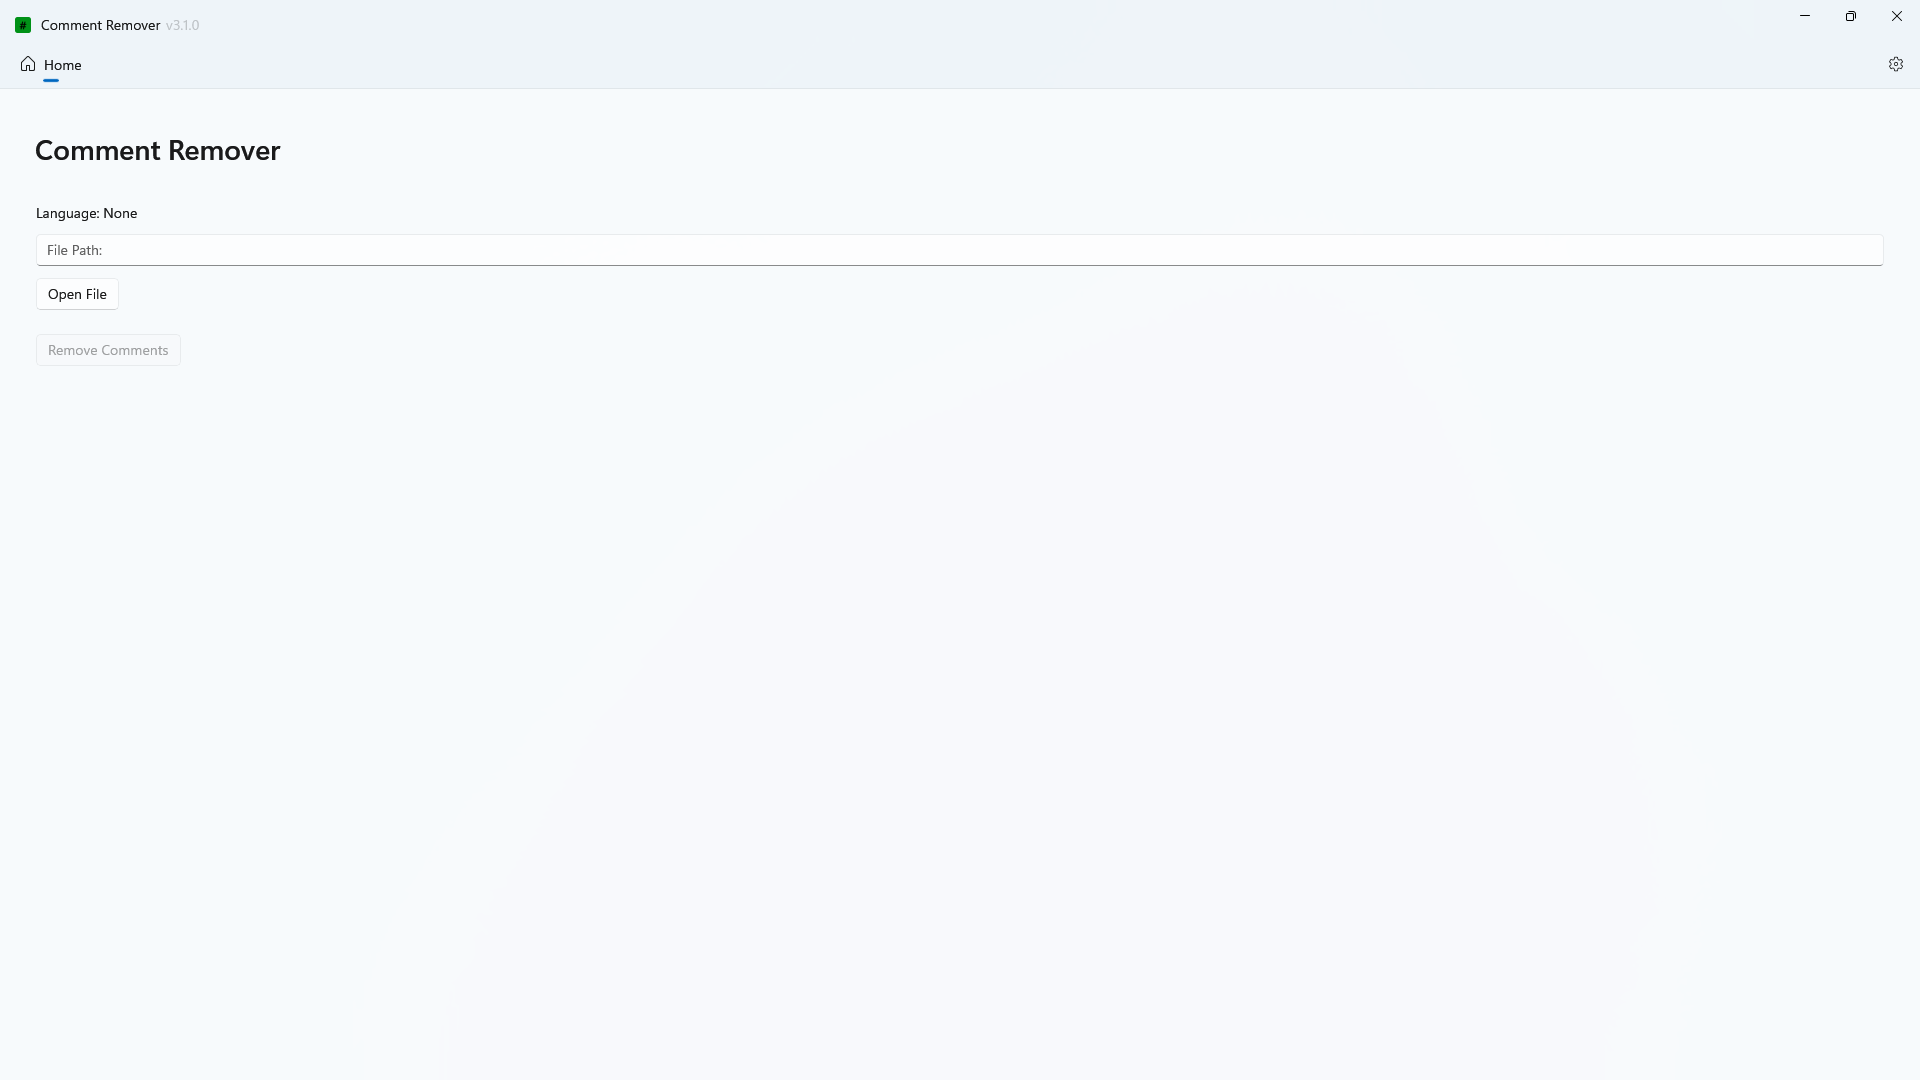
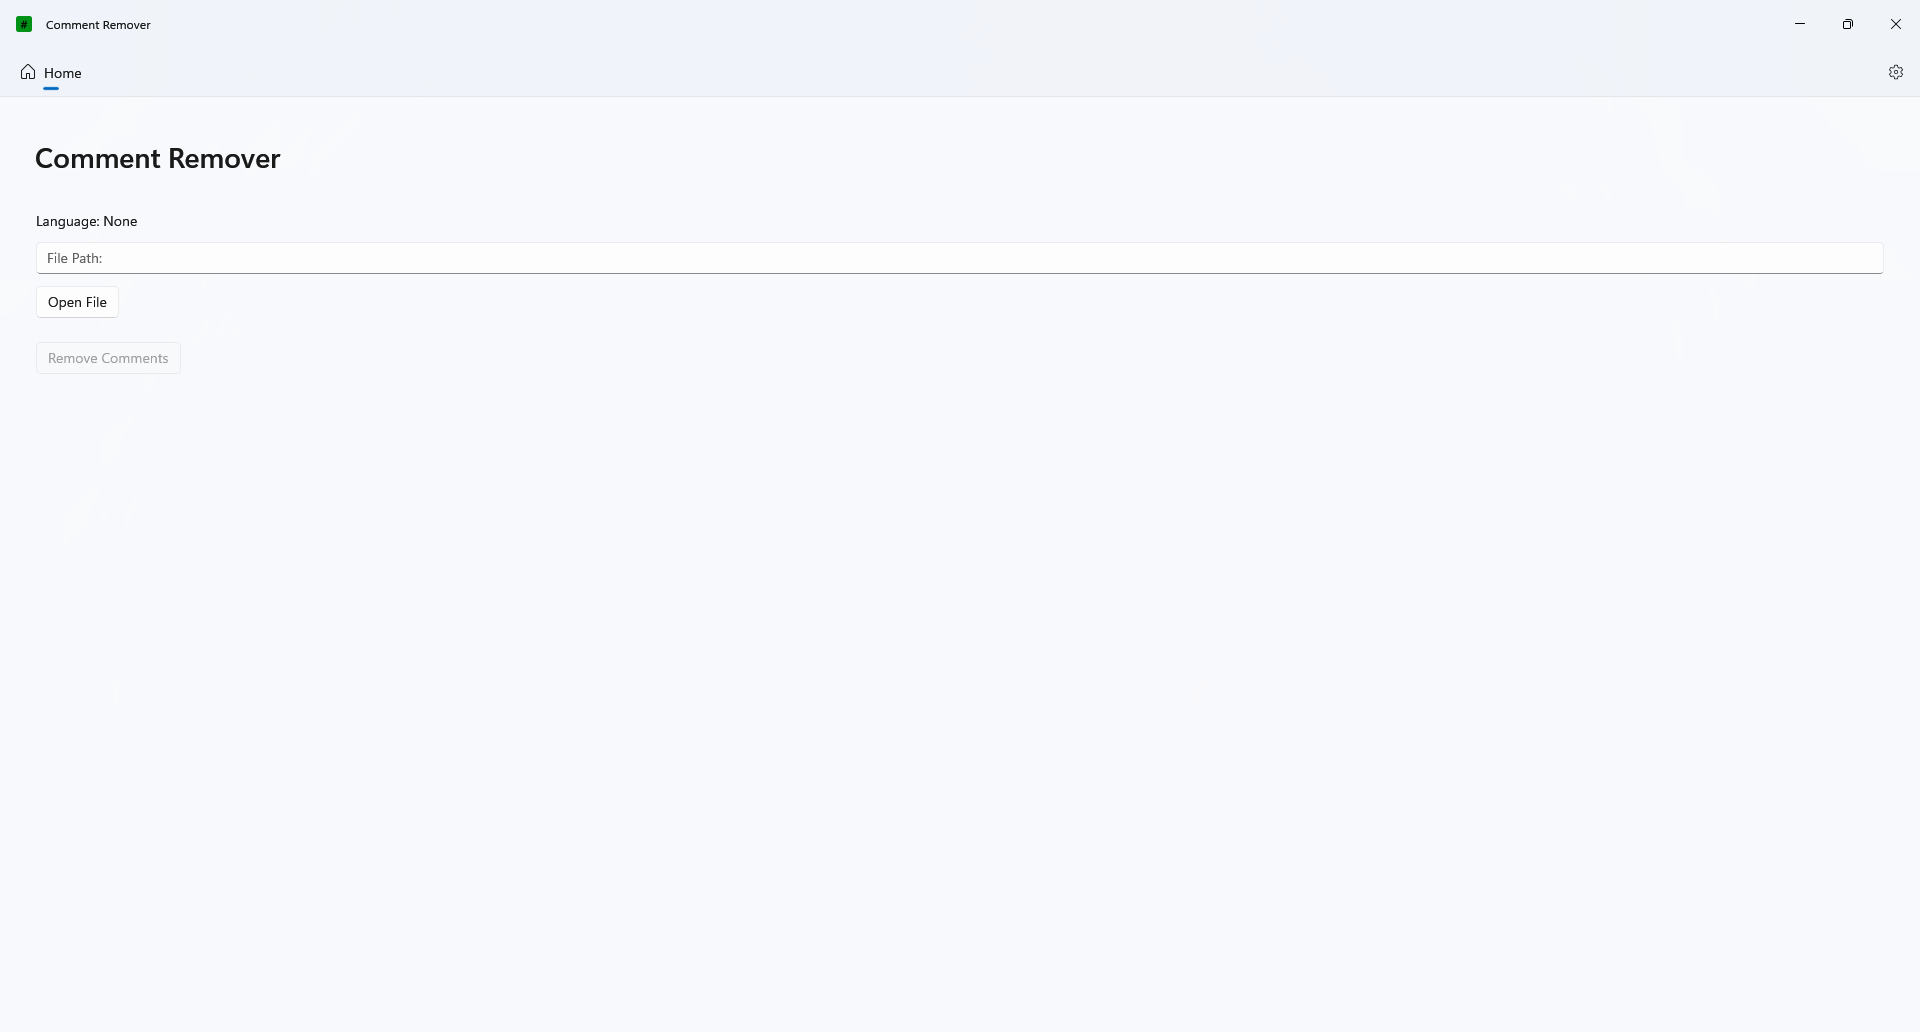
Updated

Changed region(s): [[0.0, 0.124, 0.1562, 0.3721], [0.0, 0.0, 0.0938, 0.031], [0.0, 0.062, 0.0312, 0.093]]

diff --git a/Comment Remover/MainWindow.xaml b/Comment Remover/MainWindow.xaml
@@ -1,12 +1,3 @@
-<!----------------------------------------------
--- Comment Remover - MainWindow.xaml          --
--- Language: XAML                             --
--- Author: Jacob Waters                       --
--- Github: github.com/jpwaters09              --
--- Copyright (c) 2025 Jacob Waters            --
--- Contact me: jpwaters09.business@gmail.com  --
------------------------------------------------>
-
 <?xml version="1.0" encoding="utf-8"?>
 <Window
     x:Class="Comment_Remover.MainWindow"
@@ -23,15 +14,18 @@
     </Window.SystemBackdrop>
 
     <Grid>
-        <Border x:Name="TitleBar" Height="40" Grid.Column="1" VerticalAlignment="Top">
-            <StackPanel Orientation="Horizontal" VerticalAlignment="Center">
-                <ImageIcon Source="ms-appx:///Images/Comment Remover Logo.png" Width="16" Height="16" Margin="15, 8, 0, 0"/>
-                <TextBlock Text="Comment Remover" VerticalAlignment="Top" Margin="10, 8, 0, 0" />
-                <TextBlock x:Name="VersionText" VerticalAlignment="Top" Margin="5, 8, 0, 0" Foreground="{ThemeResource SystemControlForegroundBaseLowBrush}"/>
-            </StackPanel>
-        </Border>
+        <Grid.RowDefinitions>
+            <RowDefinition Height="Auto"/>
+            <RowDefinition Height="*"/>
+        </Grid.RowDefinitions>
+        
+        <TitleBar x:Name="TitleBar" Grid.Row="0" Title="Comment Remover">
+            <TitleBar.LeftHeader>
+                <ImageIcon Height="16" Margin="16, 0, 0, 0" Source="ms-appx:///Images/Comment Remover Logo.png"/>
+            </TitleBar.LeftHeader>
+        </TitleBar>
 
-        <NavigationView PaneDisplayMode="Top" IsBackButtonVisible="Collapsed" SelectionChanged="NavBarSelectionChanged" x:Name="NavBar" Margin="0, 40, 0, 0">
+        <NavigationView Grid.Row="1" PaneDisplayMode="Top" IsBackButtonVisible="Collapsed" SelectionChanged="NavBarSelectionChanged" x:Name="NavBar">
             <NavigationView.MenuItems>
                 <NavigationViewItem Icon="Home" ToolTipService.ToolTip="Home" Content="Home" Tag="HomePage" FocusVisualPrimaryBrush="Transparent" FocusVisualSecondaryBrush="Transparent"/>
             </NavigationView.MenuItems>

diff --git a/Comment Remover/SettingsPage.xaml b/Comment Remover/SettingsPage.xaml
@@ -1,12 +1,3 @@
-<!----------------------------------------------
--- Comment Remover - SettingsPage.xaml        --
--- Language: XAML                             --
--- Author: Jacob Waters                       --
--- Github: github.com/jpwaters09              --
--- Copyright (c) 2025 Jacob Waters            --
--- Contact me: jpwaters09.business@gmail.com  --
------------------------------------------------>
-
 <?xml version="1.0" encoding="utf-8"?>
 <Page
     x:Class="Comment_Remover.SettingsPage"
@@ -148,6 +139,7 @@
                                             <HyperlinkButton Content="Privacy Policy" NavigateUri="https://github.com/Jpwaters09/Comment-Remover/blob/main/Privacy%20Policy.md"/>
                                             <HyperlinkButton Content="Source Code" NavigateUri="https://github.com/Jpwaters09/Comment-Remover"/>
                                             <HyperlinkButton Content="GitHub" NavigateUri="https://github.com/Jpwaters09"/>
+                                            <HyperlinkButton Content="LinkedIn" NavigateUri="https://linkedin.com/in/Jpwaters09"/>
                                             <HyperlinkButton Content="X" NavigateUri="https://x.com/Jpwaters09"/>
                                             <HyperlinkButton Content="Patreon" NavigateUri="https://patreon.com/Jpwaters09"/>
                                             <HyperlinkButton Content="PayPal" NavigateUri="https://paypal.me/JacobW120"/>

diff --git a/Comment Remover/App.xaml b/Comment Remover/App.xaml
@@ -1,12 +1,3 @@
-<!----------------------------------------------
--- Comment Remover - App.xaml                 --
--- Language: XAML                             --
--- Author: Jacob Waters                       --
--- Github: github.com/jpwaters09              --
--- Copyright (c) 2025 Jacob Waters            --
--- Contact me: jpwaters09.business@gmail.com  --
------------------------------------------------>
-
 <?xml version="1.0" encoding="utf-8"?>
 <Application
     x:Class="Comment_Remover.App"

diff --git a/Comment Remover/HomePage.xaml b/Comment Remover/HomePage.xaml
@@ -1,12 +1,3 @@
-<!----------------------------------------------
--- Comment Remover - HomePage.xaml            --
--- Language: XAML                             --
--- Author: Jacob Waters                       --
--- Github: github.com/jpwaters09              --
--- Copyright (c) 2025 Jacob Waters            --
--- Contact me: jpwaters09.business@gmail.com  --
------------------------------------------------>
-
 <?xml version="1.0" encoding="utf-8"?>
 <Page
     x:Class="Comment_Remover.HomePage"

diff --git a/Comment Remover/MainWindow.xaml.cs b/Comment Remover/MainWindow.xaml.cs
@@ -1,12 +1,3 @@
-////////////////////////////////////////////////
-// Comment Remover - MainWindow.xaml.cs       //
-// Language: C#                               //
-// Author: Jacob Waters                       //
-// Github: github.com/jpwaters09              //
-// Copyright (c) 2025 Jacob Waters            //
-// Contact me: jpwaters09.business@gmail.com  //
-////////////////////////////////////////////////
-
 using Microsoft.UI.Xaml;
 using WinRT.Interop;
 using Microsoft.UI;
@@ -36,6 +27,7 @@ namespace Comment_Remover
 
             this.ExtendsContentIntoTitleBar = true;
             this.SetTitleBar(TitleBar);
+            this.AppWindow.TitleBar.PreferredHeightOption = TitleBarHeightOption.Tall;
 
             UpdateTitleBarColors();
 
@@ -46,10 +38,6 @@ namespace Comment_Remover
 
             ContentFrame.Navigate(typeof(HomePage));
             NavBar.SelectedItem = NavBar.MenuItems[0];
-
-            var packageVersion = Package.Current.Id.Version;
-
-            VersionText.Text = $"v{packageVersion.Major}.{packageVersion.Minor}.{packageVersion.Build}";
         }
 
         private void RootElement_ActualThemeChanged(FrameworkElement sender, object args)

diff --git a/Comment Remover/ThemeHelper.cs b/Comment Remover/ThemeHelper.cs
@@ -1,13 +1,4 @@
-////////////////////////////////////////////////
-// Comment Remover - ThemeHelper.cs           //
-// Language: C#                               //
-// Author: Jacob Waters                       //
-// Github: github.com/jpwaters09              //
-// Copyright (c) 2025 Jacob Waters            //
-// Contact me: jpwaters09.business@gmail.com  //
-////////////////////////////////////////////////
-
-using Microsoft.UI.Xaml;
+using Microsoft.UI.Xaml;
 using System.Collections.Generic;
 using Windows.Storage;
 

diff --git a/Comment Remover/App.xaml.cs b/Comment Remover/App.xaml.cs
@@ -1,13 +1,4 @@
-////////////////////////////////////////////////
-// Comment Remover - App.xaml.cs              //
-// Language: C#                               //
-// Author: Jacob Waters                       //
-// Github: github.com/jpwaters09              //
-// Copyright (c) 2025 Jacob Waters            //
-// Contact me: jpwaters09.business@gmail.com  //
-////////////////////////////////////////////////
-
-using System;
+using System;
 using Microsoft.UI.Xaml;
 
 namespace Comment_Remover

diff --git a/Comment Remover/SettingsPage.xaml.cs b/Comment Remover/SettingsPage.xaml.cs
@@ -1,12 +1,3 @@
-////////////////////////////////////////////////
-// Comment Remover - SettingsPage.xaml.cs     //
-// Language: C#                               //
-// Author: Jacob Waters                       //
-// Github: github.com/jpwaters09              //
-// Copyright (c) 2025 Jacob Waters            //
-// Contact me: jpwaters09.business@gmail.com  //
-////////////////////////////////////////////////
-
 using System;
 using Microsoft.UI.Xaml;
 using Microsoft.UI.Xaml.Controls;

diff --git a/Comment Remover/HomePage.xaml.cs b/Comment Remover/HomePage.xaml.cs
@@ -1,12 +1,3 @@
-////////////////////////////////////////////////
-// Comment Remover - HomePage.xaml.cs         //
-// Language: C#                               //
-// Author: Jacob Waters                       //
-// Github: github.com/jpwaters09              //
-// Copyright (c) 2025 Jacob Waters            //
-// Contact me: jpwaters09.business@gmail.com  //
-////////////////////////////////////////////////
-
 using System;
 using System.IO;
 using Microsoft.UI.Xaml;

diff --git a/README.md b/README.md
@@ -42,19 +42,6 @@
 ##
 
 <div align="center">
-  <h3>Repositories:</h3>
-
-  <a href="https://github.com/Jpwaters09/Raspberry-Pi-Projects"><img src="https://img.shields.io/badge/Raspberry%20Pi%20Projects-Raspberry%20Pi%20Projects?logo=python&logoColor=white&labelColor=3776AB&color=grey" alt="Raspberry Pi Projects" height="30"/></a>
-  <a href="https://github.com/Jpwaters09/HTML-Projects"><img src="https://img.shields.io/badge/HTML%20Projects-HTML%20Projects?logo=HTML5&logoColor=white&labelColor=E34F26&color=grey" alt="HTML Projects" height="30"/></a>
-  <a href="https://github.com/Jpwaters09/Python-Projects"><img src="https://img.shields.io/badge/Python%20Projects-Python%20Projects?logo=python&logoColor=white&labelColor=3776AB&color=grey" alt="Python Projects" height="30"/></a>
-  <a href="https://github.com/Jpwaters09/CPP-Projects"><img src="https://img.shields.io/badge/C++%20Projects-C++%20Projects?logo=C%2B%2B&logoColor=white&labelColor=00599C&color=grey" alt="C++ Projects" height="30"/></a>
-  <a href="https://github.com/Jpwaters09/Comment-Remover"><img src="https://img.shields.io/badge/Comment%20Remover-Comment%20Remover?logo=python&logoColor=white&labelColor=3776AB&color=grey" alt="Comment Remover" height="30"/></a>
-  <a href="https://github.com/Jpwaters09/CS-Projects"><img src="https://img.shields.io/badge/C%23%20Projects-C%23%20Projects?logo=c&logoColor=white&labelColor=8849d6&color=grey" alt="C# Projects" height="30"/></a>
-</div>
-
-##
-
-<div align="center">
   <h3>Socials:</h3>
   
   <a href="mailto:jpwaters09.business@gmail.com"><img margin-right="10px" src="https://img.shields.io/static/v1?message=Gmail&logo=gmail&label=&color=D14836&logoColor=white&style=flat" height="40" alt="Gmail Logo"/></a>
